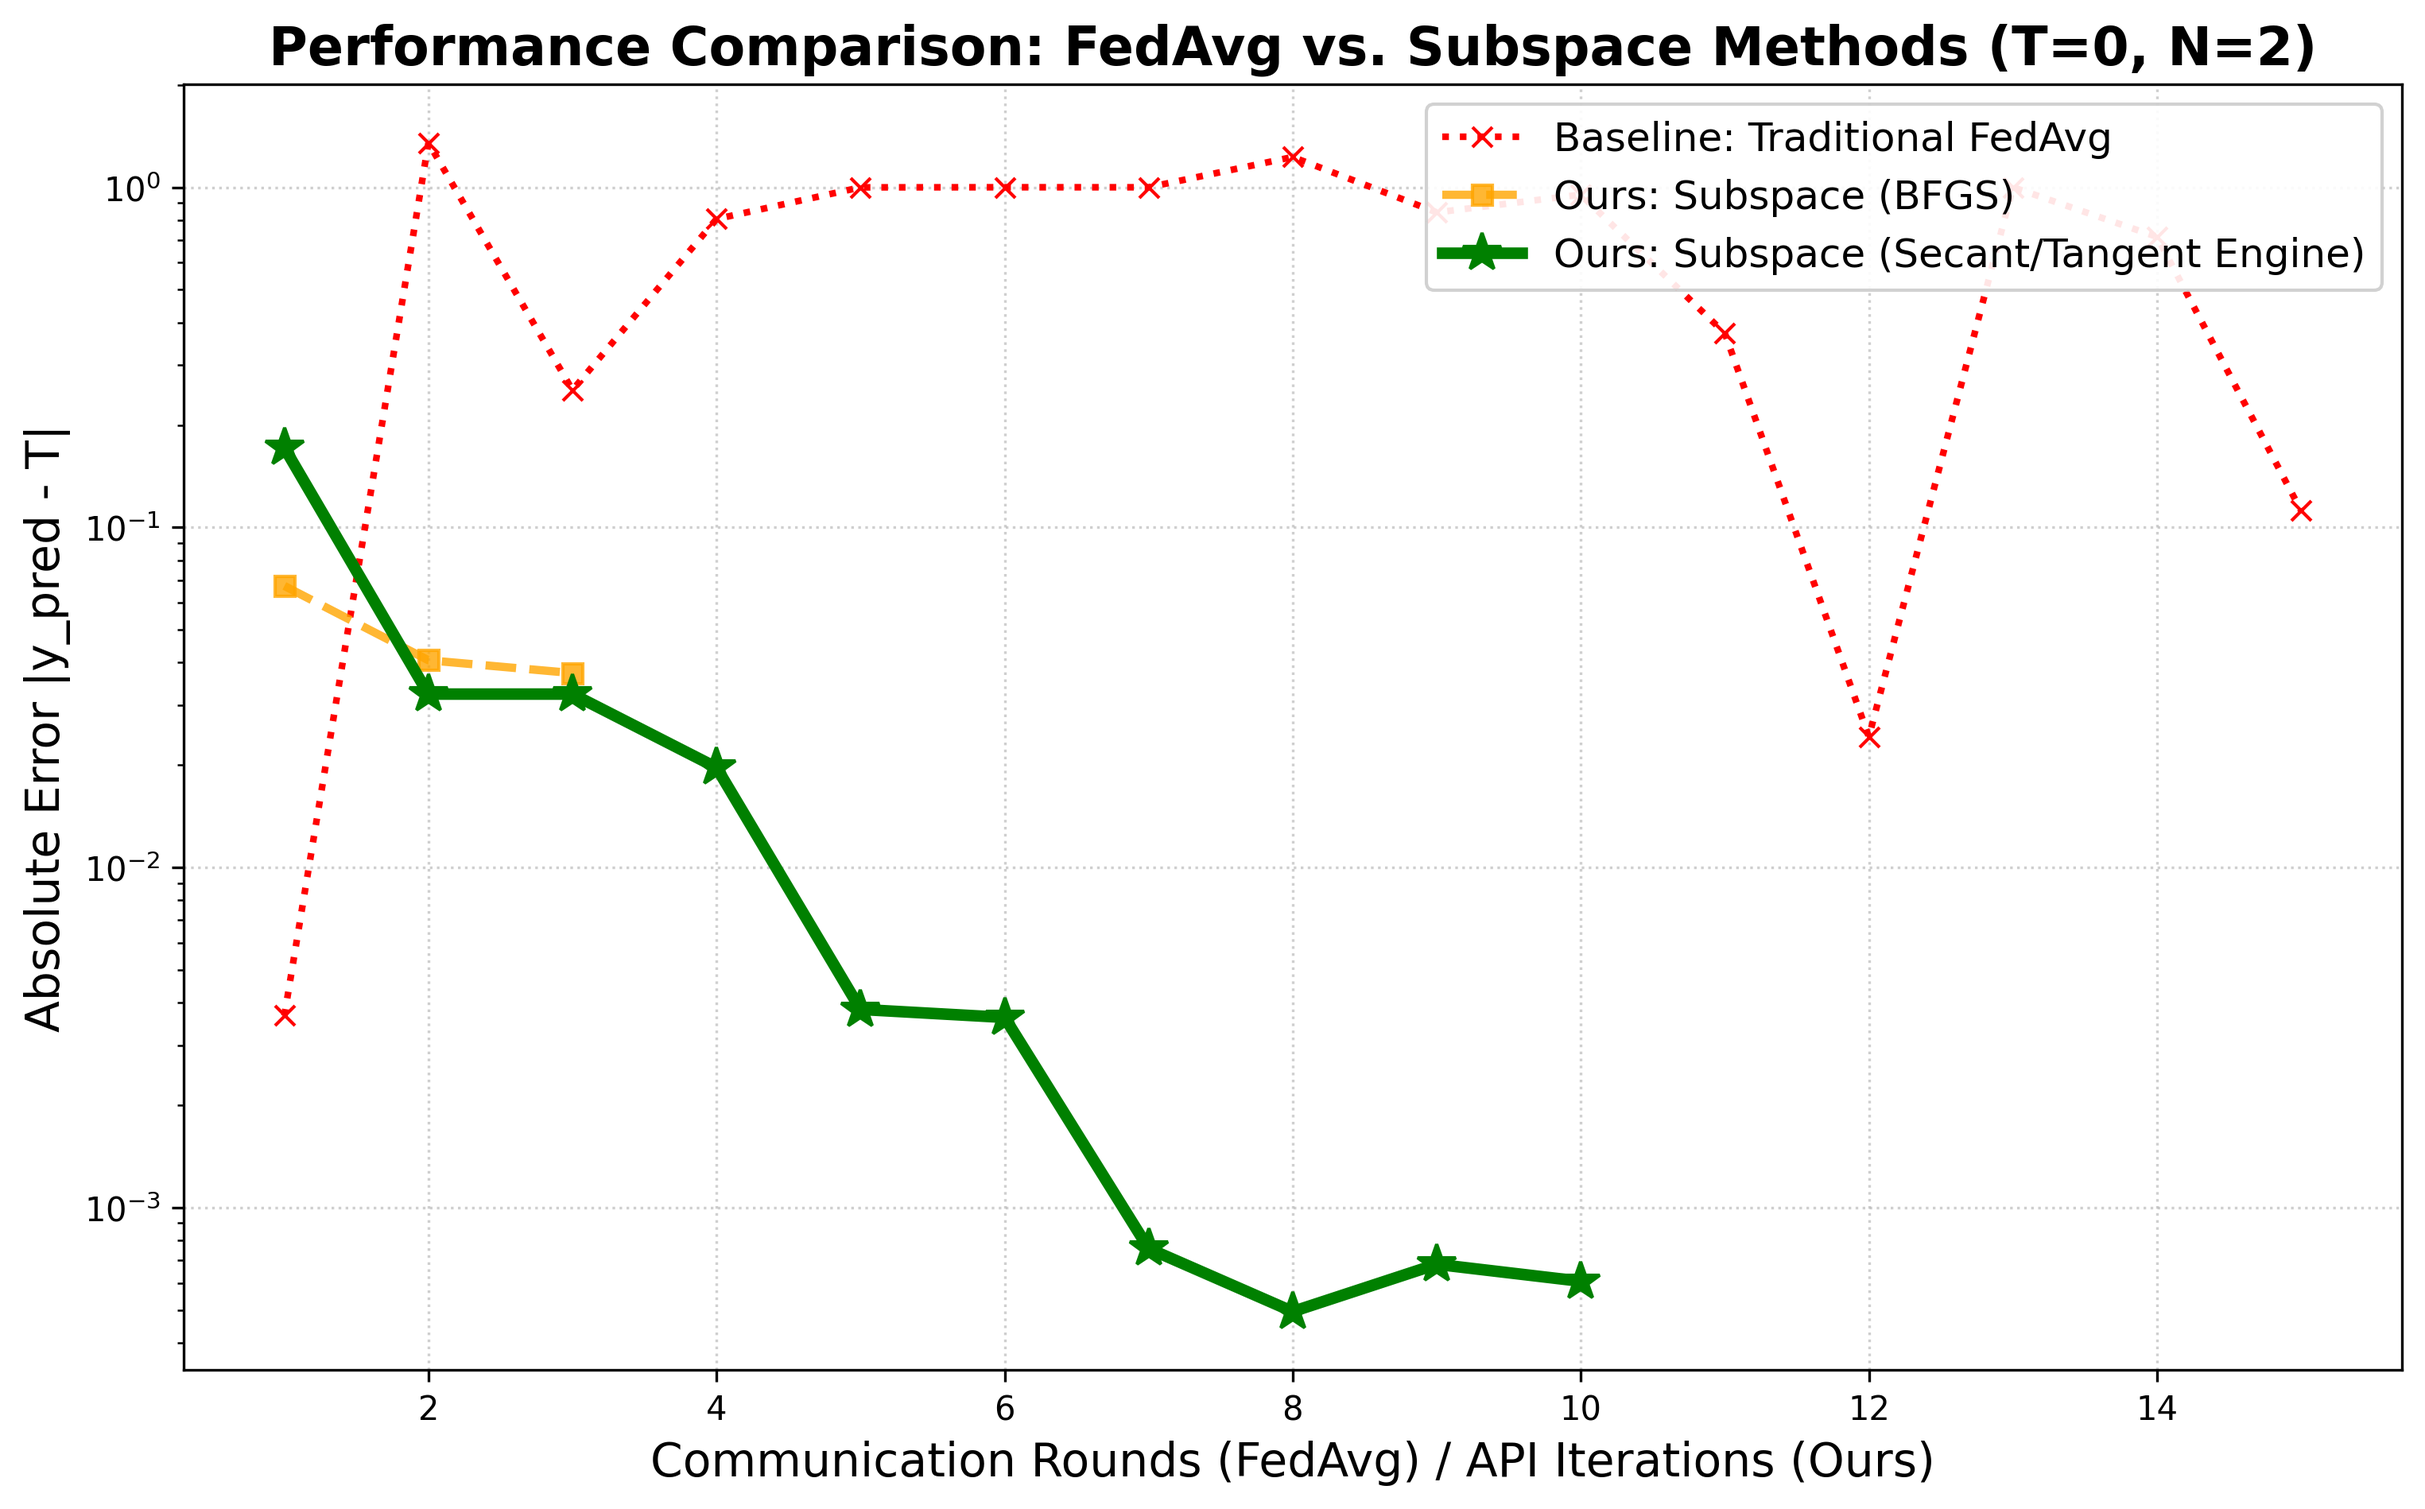
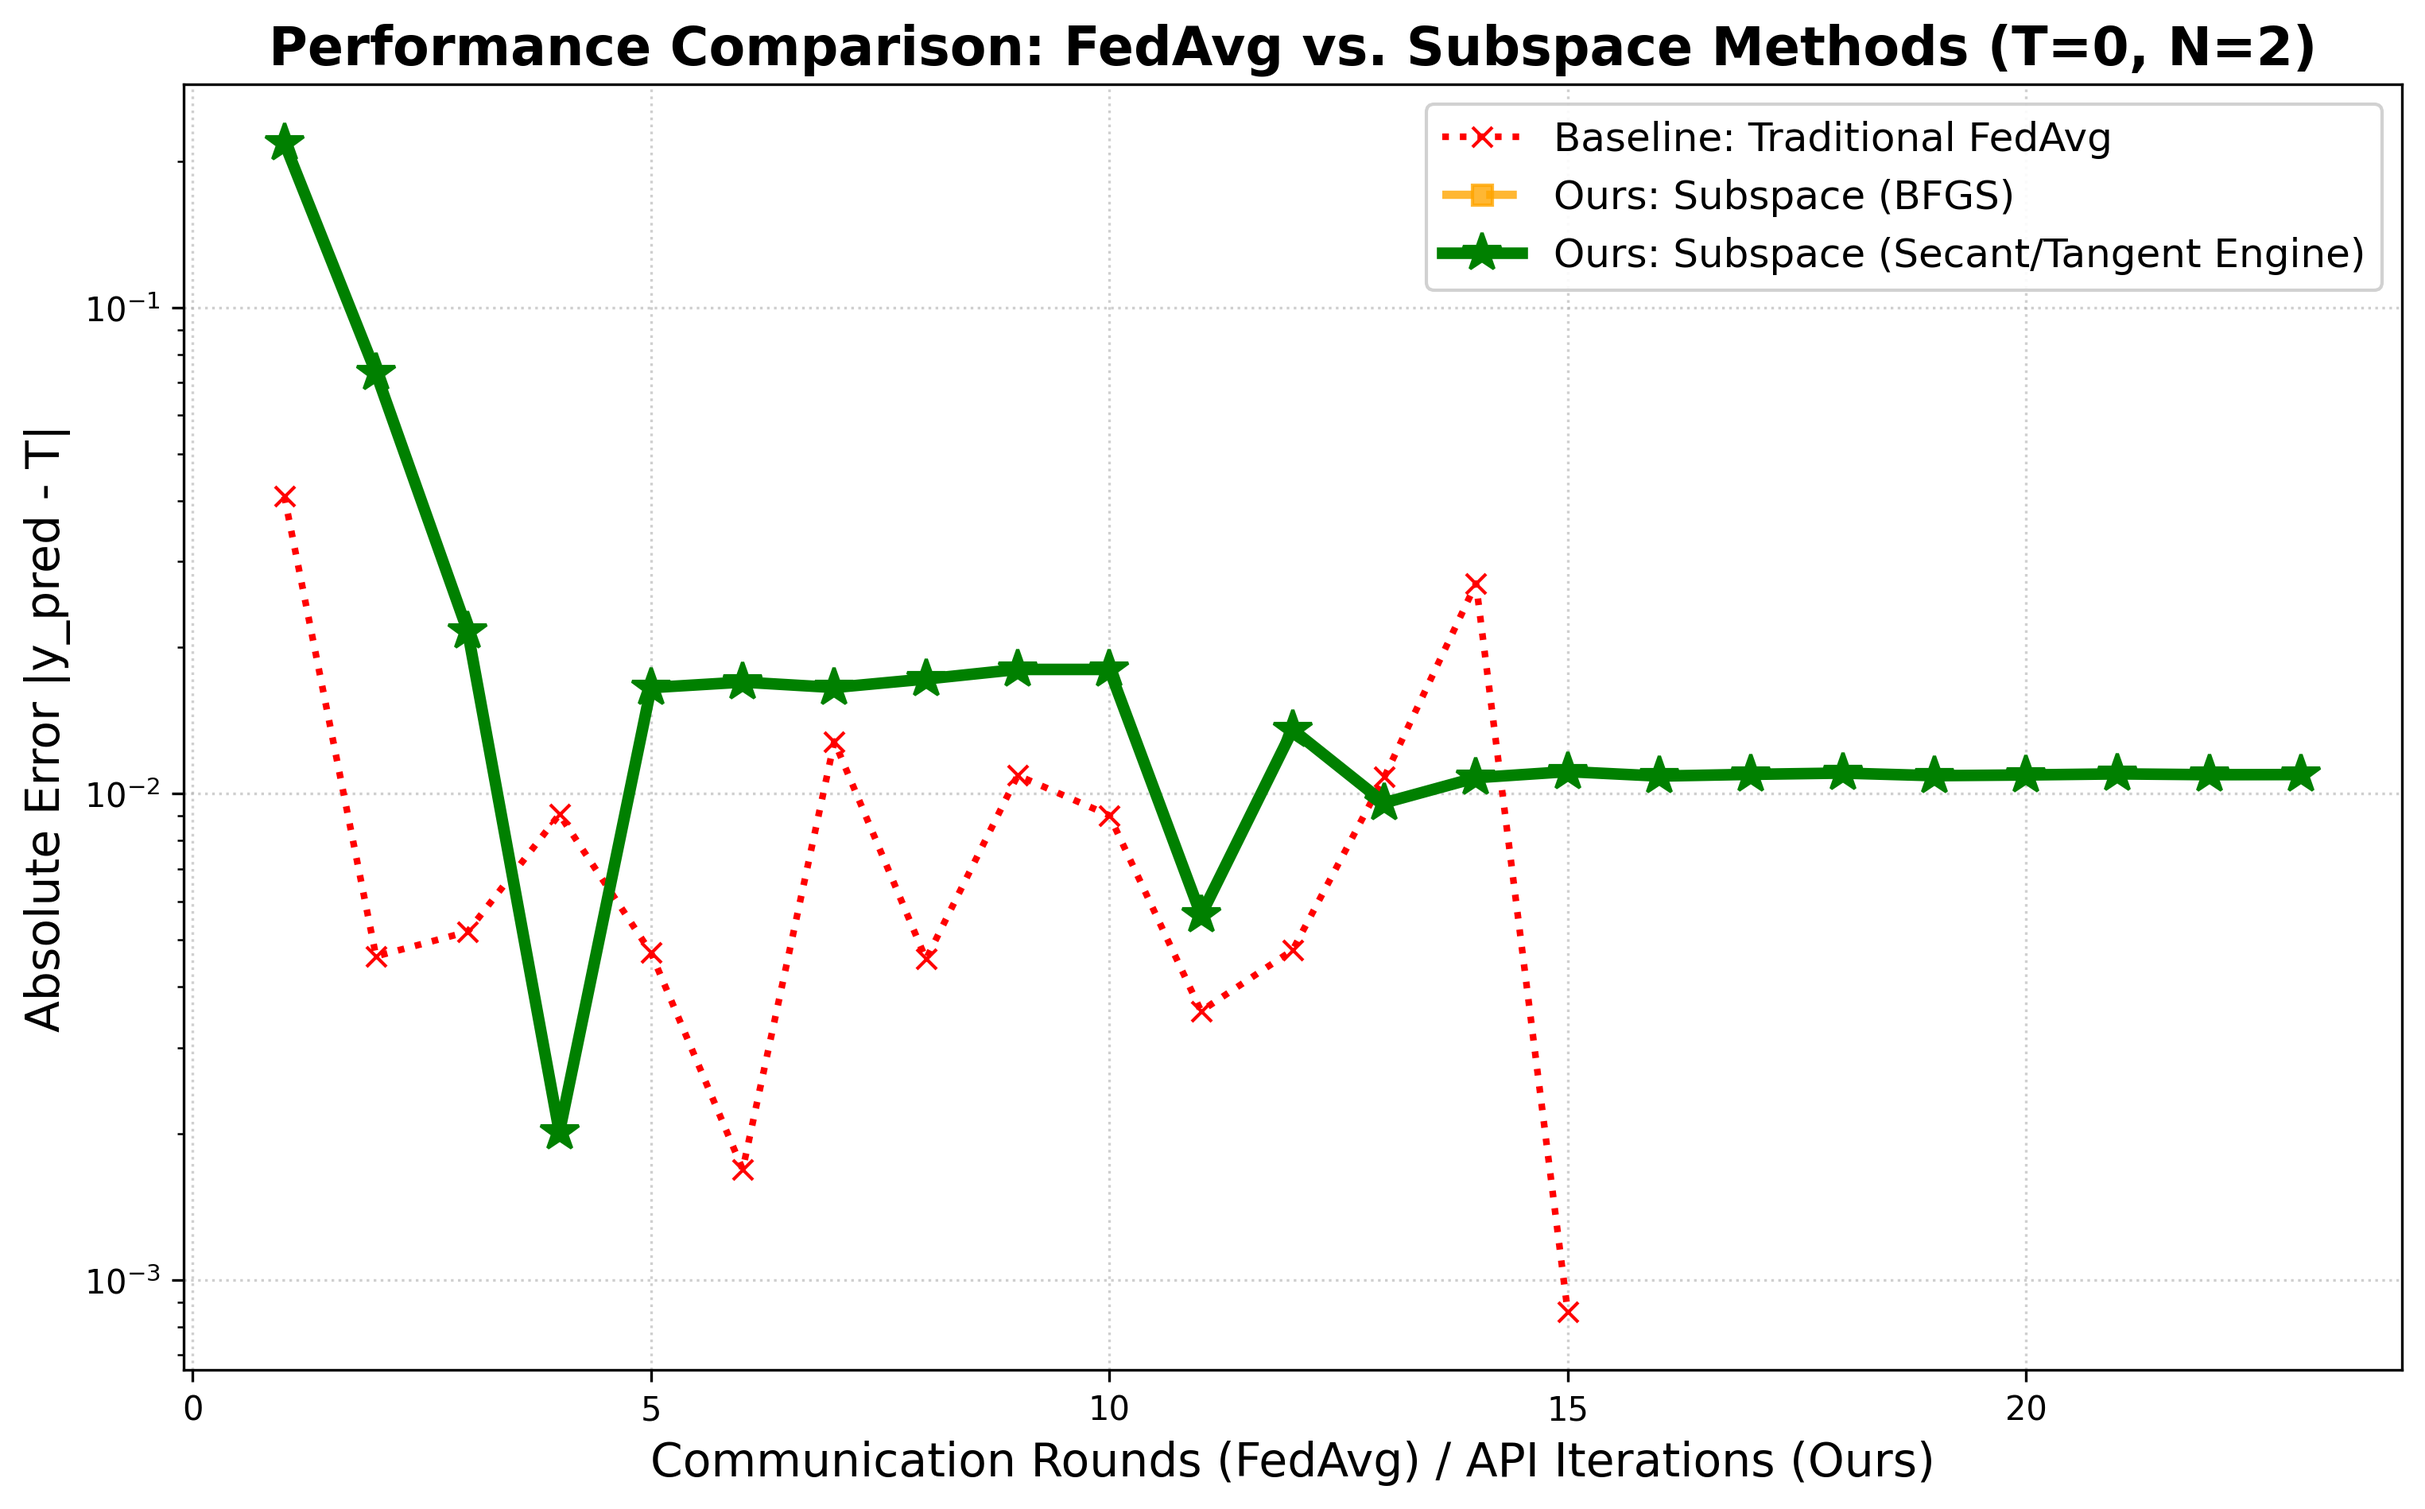
modify experiment setting

diff --git a/main.py b/main.py
@@ -72,9 +72,9 @@ def run_fedavg_baseline(agents, n_features, target_T, global_rounds=15, local_ep
     return current_S, error_history
 
 def main():
-    TARGET_T = 1.1
+    TARGET_T = 0
     NUM_AGENTS = 20      # 擴大參與人數
-    POISON_RATIO = 0   # 設定 40% 的人是異質節點
+    POISON_RATIO = 0.3   # 設定 40% 的人是異質節點
     N = 10                # 設定是幾元多項式
     
     print(f"=== Phase 0: 準備資料與訓練本地神經網路 (共 {NUM_AGENTS} 個 Agent) ===")
@@ -211,7 +211,7 @@ def main():
     plt.legend(fontsize=12, loc='upper right', framealpha=0.9)
     
     # 儲存圖片
-    save_path = f"results_plots/fl_inversion_test_comparison_N{N}_T{TARGET_T}.png"
+    save_path = f"results_plots/fl_inversion_test_comparison_N{N}_T{TARGET_T}_rho{POISON_RATIO}.png"
     plt.savefig(save_path, dpi=300, bbox_inches='tight')
     
     print(f"=== 🎉 實驗對比圖已儲存至：{save_path} ===")

diff --git a/ablation_main.py b/ablation_main.py
@@ -614,10 +614,10 @@ def run_ablation_study(args):
 def build_parser():
     parser = argparse.ArgumentParser(description="Stage 3 dual-engine optimizer ablation.")
     parser.add_argument("--seeds", default="0,1,2")
-    parser.add_argument("--target", type=float, default=1.5)
+    parser.add_argument("--target", type=float, default=0)
     parser.add_argument("--num-agents", type=int, default=20)
     parser.add_argument("--poison-ratio", type=float, default=0.4)
-    parser.add_argument("--n-features", type=int, default=10)
+    parser.add_argument("--n-features", type=int, default=5)
     parser.add_argument("--samples-per-agent", type=int, default=500)
     parser.add_argument("--epochs", type=int, default=30)
     parser.add_argument("--n-test", type=int, default=5)
